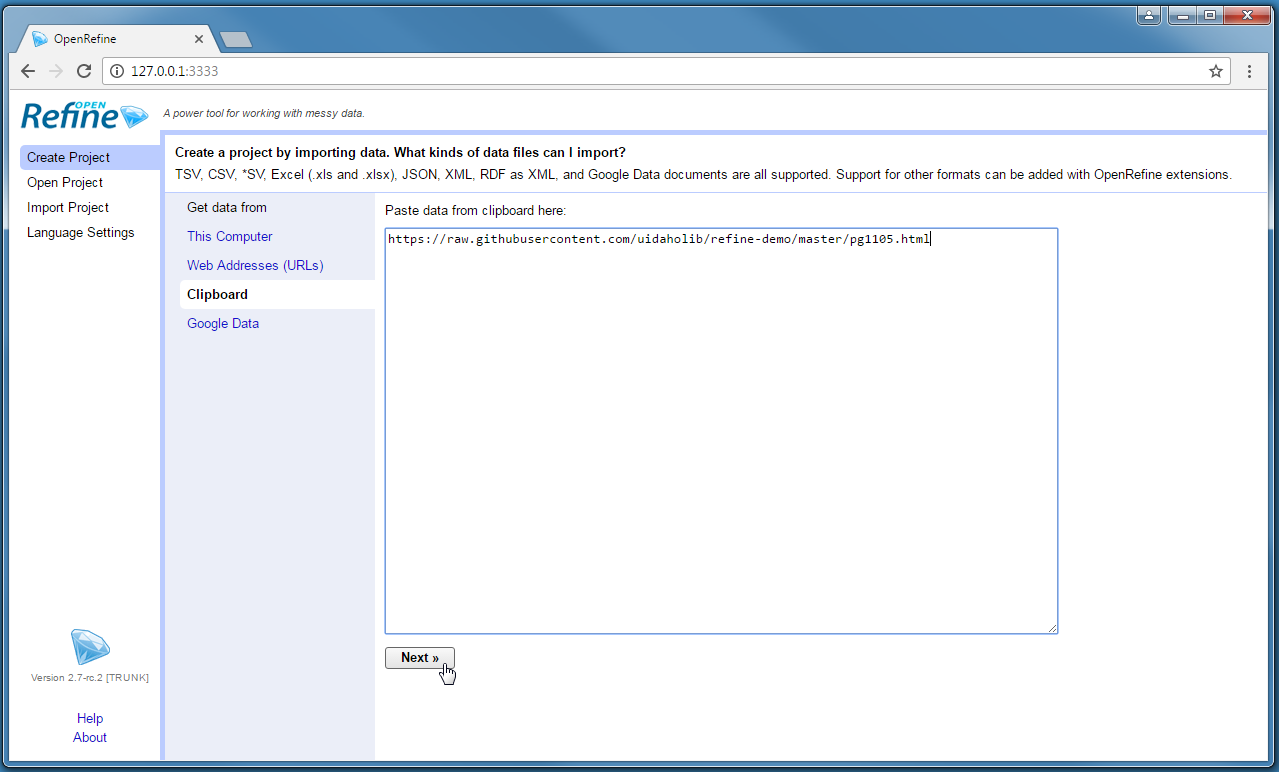
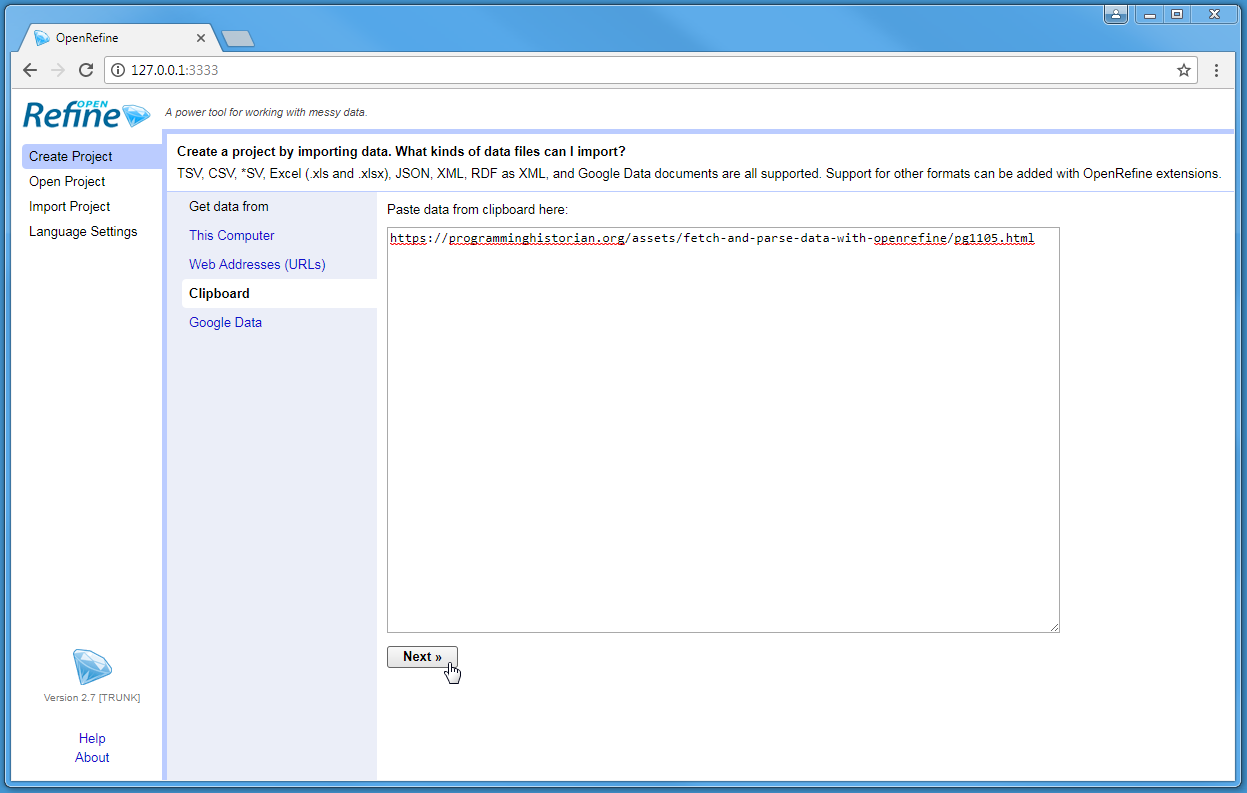
openrefine: final edits and screenshot updates

Changed region(s): [[0.0, 0.0, 1.0, 1.0], [0.3047, 0.8083, 0.3962, 0.9016]]

diff --git a/lessons/fetch-and-parse-data-with-openrefine.md b/lessons/fetch-and-parse-data-with-openrefine.md
@@ -11,7 +11,7 @@ layout: lesson
 # Lesson Goals
 
 OpenRefine is a powerful tool for exploring, cleaning, and transforming data. 
-An earlier Programming Historian [lesson](http://programminghistorian.org/lessons/cleaning-data-with-openrefine) introduced the basic functionality of Refine to efficiently discover and correct inconsistency in a data set.
+An earlier Programming Historian lesson, ["Cleaning Data with OpenRefine"](http://programminghistorian.org/lessons/cleaning-data-with-openrefine), introduced the basic functionality of Refine to efficiently discover and correct inconsistency in a data set.
 Building on those essential data wrangling skills, this lesson focuses on Refine's ability to fetch urls and parse web content.
 Examples introduce some of the advanced features to transform and enhance a data set including: 
 
@@ -19,6 +19,7 @@ Examples introduce some of the advanced features to transform and enhance a data
 - construct URL queries to retrieve information from a simple web API
 - parse HTML and JSON responses to extract relevant data
 - use array functions to manipulate string values
+- use Jython to extend Refine's functionality
 
 It will be helpful to have basic familiarity with OpenRefine, HTML, and programming concepts to complete this lesson.
 
@@ -69,13 +70,13 @@ A copy of the HTML ebook is hosted on GitHub for this example to avoid redirects
 
 ## Start "Sonnets" Project
 
-Start OpenRefine and select *Create project*. 
+Start OpenRefine and select *Create Project*. 
 Refine can import data from a wide variety of formats and sources, from a local Excel file to web accessible RDF.
 One often over looked method is the *Clipboard*, which allows entering data via copy & paste.
-Click Get Data From *Clipboard*, and paste this URL into the text box: 
+Under "Get Data From", click *Clipboard*, and paste this URL into the text box: 
 
 ```
-http://programminghistorian.github.io/ph-submissions/assets/fetch-and-parse-data-with-openrefine/pg1105.html
+https://programminghistorian.org/assets/fetch-and-parse-data-with-openrefine/pg1105.html
 ```
 
 {% include figure.html filename="refine-clipboard1.png" caption="Start project with clipboard" %}
@@ -91,14 +92,14 @@ Click on the menu arrow of *Column 1* > *Edit column* > *Add column by fetching 
 
 {% include figure.html caption="Edit column > Add column by fetching URL" filename="refine-fetch1.png" %}
 
-Name the new column `fetch`. 
+Name the new column "fetch". 
 The *throttle delay* option sets a pause time between requests to avoid being blocked by a server.
 The default is conservative. 
 
 {% include figure.html caption="Add column by fetch dialog box" filename="refine-fetch1.2.png" %}
 
 After clicking "OK", Refine will start requesting the URLs from the base column as if you were opening the pages in your browser, and will store each response in the cells of the new column.
-In this case, there is one URL in *Column 1* resulting in one cell in the *fetch* column containing the full source for the Sonnets web page. 
+In this case, there is one URL in *Column 1* resulting in one cell in the *fetch* column containing the full HTML source for the Sonnets web page. 
 
 {% include figure.html caption="Fetch results" filename="refine-fetch1.3.png" %}
 
@@ -108,18 +109,18 @@ Much of the web page is not sonnet text and must be removed to create a clean da
 First, it is necessary to identify a pattern that can isolate the desired content.
 Items will often be nested in a unique container or given a meaningful class or id.
 
-To make examining the HTML easier, click on the URL in *Column 1* to open the link in a new tab and view-source.
+To make examining the HTML easier, click on the URL in *Column 1* to open the link in a new tab, then right click on the page to "View Page Source".
 In this case the sonnets page does not have distinctive semantic markup, but each poem is contained inside a single `<p>` element. 
-Thus, if all the paragraphs are selected, the sonnets can be extracted from the array.
+Thus, if all the paragraphs are selected, the sonnets can be extracted from the group.
 
 {% include figure.html caption="Each sonnet is a \<p\> with lines separated by \<br /\>" filename="refine-sonnet-markup.png" %}
 
 On the *fetch* column, click on the menu arrow > *edit column* > *Add column based on this column*.
-Give the new column the name `parse`, then click in the *Expression* text box.
+Give the new column the name "parse", then click in the *Expression* text box.
 
-{% include figure.html caption="Edit column > Add column based on this column dialog box" filename="refine-expression-box.png" %}
+{% include figure.html caption="Edit column > Add column based on this column" filename="refine-expression-box.png" %}
 
-Values in Refine can be transformed using the General Refine Expression Language ([GREL](https://github.com/OpenRefine/OpenRefine/wiki/General-Refine-Expression-Language)).
+Data in Refine can be transformed using the [General Refine Expression Language](https://github.com/OpenRefine/OpenRefine/wiki/General-Refine-Expression-Language) (GREL).
 The *Expression* box accepts GREL functions that will be applied to each cell in the existing column to create values for the new one.
 The *Preview* window below the *Expression* box displays the current value on the left and the value for the new column on the right.
 
@@ -128,21 +129,22 @@ This means that each cell is simply copied to the new column, which is reflected
 GREL variables and functions are strung together in sequence using a period, called dot notation.
 This allows complex operations to be constructed by passing the results of each function to the next.
 
-GREL's `parseHtml()` function can read HTML content, allowing elements to be accessed using `select()` and the [jsoup selector syntax](https://jsoup.org/cookbook/extracting-data/selector-syntax).
-Starting with `value`, add the functions `parseHtml()` and `select("p")` in the *Expression* box using dot notation, resulting in `value.parseHtml().select("p")`.
-Do not click *OK* at this point, but look at the *Preview* to see the result of the expression.
+GREL's `parseHtml()` function can read HTML content, allowing elements to be accessed using the `select()` function and the [jsoup selector syntax](https://jsoup.org/cookbook/extracting-data/selector-syntax).
+Starting with `value`, add the functions `parseHtml()` and `select("p")` in the *Expression* box using dot notation, resulting in: `value.parseHtml().select("p")`.
+Do not click *OK* at this point, simply look at the *Preview* to see the result of the expression.
 
-{% include figure.html caption="Edit the GREL expression" filename="refine-parse-html.png" %}
+{% include figure.html caption="Edit the GREL expression, parseHtml function" filename="refine-parse-html.png" %}
 
 Notice that the output on the right no longer starts with the HTML root elements (`<!DOCTYPE html` etc.) seen on the left.
 Instead, it starts with a square bracket (`[`), displaying an [array](https://en.wikipedia.org/wiki/Array_data_type) of all the `p` elements found in the page.
 Refine represents an array as a comma separated list enclosed in square brackets, for example `[ "one", "two", "three" ]`.
 
-Refine is visual and iterative; it is common to gradually build up an expression while checking the *Preview* to see the result.
+Refine is visual and iterative; it is common to gradually build up an expression while checking the preview to see the result.
+In addition to helping debug your GREL, this provides an opportunity learn more about the data set before adding more functions.
 Try the following GREL statements in the *Expression* box without clicking *OK*. 
-Watch the preview window to understand how they function and learn about the data's contents:
+Watch the preview window to understand how they function:
 
-- Adding an index number to the expression selects one element from the array, for example `value.parseHtml().select("p")[0]`. In the sonnets example, the beginning of the file contains many paragraphs of license information that are unnecessary for the data set. Skipping ahead, the first sonnet is found at `value.parseHtml().select("p")[37]`. 
+- Adding an index number to the expression selects one element from the array, for example `value.parseHtml().select("p")[0]`. In the sonnets example, the beginning of the file contains many paragraphs of license information that are unnecessary for the data set. Skipping ahead through the index numbers, the first sonnet is found at `value.parseHtml().select("p")[37]`. 
 - GREL also supports using negative index numbers, thus `value.parseHtml().select("p")[-1]` will return the last item in the array. Working backwards, the last sonnet is at index `[-3]`.
 - Using these index numbers, it is possible to slice the array, extracting only the range of `p` that contain sonnets. Add the `slice()` function to the expression to preview the sub-set: `value.parseHtml().select("p").slice(37,-2)`. 
 
@@ -168,7 +170,7 @@ The full history of operations is recorded in the "Undo / Redo" tab.
 
 The *parse* column now contains all the sonnets separated by "|", but the project still contains only one row. 
 Individual rows for each sonnet can be created by splitting the cell.
-Click the menu arrow on the *parse* column > *Edit cells* > *Split multivalued cells*. 
+Click the menu arrow on the *parse* column > *Edit cells* > *Split multi-valued cells*. 
 Enter the separator `|` that was used to `join` in the last step.
 
 {% include figure.html caption="Edit cells > Split multivalued cells" filename="refine-split-multivalued.png" %}
@@ -197,7 +199,7 @@ Select the `p` tag, add an index number, and use the function `innerHtml()` to e
 value.parseHtml().select("p")[0].innerHtml()
 ```
 
-Click *Ok* to transform all 154 cells in the column. 
+Click *OK* to transform all 154 cells in the column. 
 
 {% include figure.html caption="Edit cells > Transform" filename="refine-innerhtml.png" %}
 
@@ -220,8 +222,8 @@ The entities will be replaced with normal whitespace.
 [GREL array functions](https://github.com/OpenRefine/OpenRefine/wiki/GREL-Array-Functions) provide a powerful way to manipulate text data and can be used to finish processing the sonnets.
 Any string value can be turned into an array using the `split()` function by providing the character or expression that separates the items (basically the opposite of `join()`). 
 
-In the sonnets each line ends with `<br>`, providing a convenient separator for splitting.
-The expression `value.split("<br>")` will create an array of the lines of each sonnet. 
+In the sonnets each line ends with `<br />`, providing a convenient separator for splitting.
+The expression `value.split("<br />")` will create an array of the lines of each sonnet. 
 Index numbers and slices can then be used to populate new columns.
 Keep in mind that Refine will not output an array directly to a cell.
 Be sure to select one element from the array using an index number or convert it back to a string with `join()`.
@@ -233,8 +235,8 @@ Trim automatically removes all leading and trailing white space in a cell, an es
 Using these concepts, a single line can be extracted and trimmed to create clean columns representing the sonnet number and first line.
 Create new columns from the *parse* column using these names and expressions:
 
-- number, `value.split("<br />")[0].trim()`
-- first, `value.split("<br />")[1].trim()`
+- "number", `value.split("<br />")[0].trim()`
+- "first", `value.split("<br />")[1].trim()`
 
 {% include figure.html caption="GREL split and trim" filename="refine-add-num-column.png" %}
 
@@ -242,9 +244,9 @@ The next column to create is the full sonnet text which contains multiple lines.
 However, `trim()` will only clean the beginning and end of the cell, leaving unnecessary whitespace in the body of the sonnet.
 To trim each line individually use the [GREL control](https://github.com/OpenRefine/OpenRefine/wiki/GREL-Controls) `forEach()`, a handy loop that iterates over an array.
 
-From the *parse* column, create a new column named *text*, and click in the *Expression* box.
+From the *parse* column, create a new column named "text", and click in the *Expression* box.
 A `forEach()` statement asks for an array, a variable name, and an expression applied to the variable. 
-Following the form `forEach(array, variable, expression)`, construct a loop using these parameters:
+Following the form `forEach(array, variable, expression)`, construct the loop using these parameters:
 
 - array `value.split("<br />")`, creates an array from the lines of the sonnet in each cell.
 - variable `line`, each item in the array is then represented as the variable (it could be anything, `v` is often used).
@@ -253,7 +255,7 @@ Following the form `forEach(array, variable, expression)`, construct a loop usin
 At this point, the statement should look like `forEach(value.split("<br />"), line, line.trim())` in the *Expression* box.
 Notice that the *Preview* now shows an array where the first element is the sonnet number.
 Since the results of the `forEach()` are returned as a new array, additional array functions can be applied, such as slice and join.
-Add `.slice(1)` to remove the sonnet number, and `.join("\n")` to concatenate the lines in to a string value.
+Add `slice(1)` to remove the sonnet number, and `join("\n")` to concatenate the lines in to a string value (`\n` is the symbol for new line in plain text).
 Thus, the final expression to extract and clean the full sonnet text is:
 
 ```
@@ -262,7 +264,8 @@ forEach(value.split("<br />"), line, line.trim()).slice(1).join("\n")
 
 {% include figure.html caption="GREL forEach expression" filename="refine-foreach.png" %}
 
-Following the same technique, add another new column from *parse* named *last* to represent the final couplet lines using:
+Click "OK" to create the column.
+Following the same technique, add another new column from *parse* named "last" to represent the final couplet lines using:
 
 ```
 forEach(value.split("<br />"), line, line.trim()).slice(-3).join("\n")
@@ -271,8 +274,8 @@ forEach(value.split("<br />"), line, line.trim()).slice(-3).join("\n")
 Finally, numeric columns can be added using the `length()` function.
 Create new columns from *text* with the names and expressions below:
 
-- characters, `value.length()`
-- lines, `value.split(/\n/).length()`
+- "characters", `value.length()`
+- "lines", `value.split(/\n/).length()`
 
 ## Cleanup and Export
 
@@ -334,6 +337,7 @@ Chronicling America provides [documentation](http://chroniclingamerica.loc.gov/a
 In addition to formal documentation, information about alternative formats and search API are sometimes given in the `<head>` element of a web page.
 Check for `<link rel="alternate"...`, `<link rel="search"...`, or `<!--` comments which provide hints on how to interact with the site.
 These clues provide a recipe book for interacting with the server using public links.
+
 The basic components of the ChromAm API are:
 
 - The base URL, `http://chroniclingamerica.loc.gov/`
@@ -342,30 +346,41 @@ The basic components of the ChromAm API are:
 
 Using a GREL expression, these components can be combined with the values in the "ChronAm" project to construct a search query URL.
 The contents of our data can be accessed using [GREL variables](https://github.com/OpenRefine/OpenRefine/wiki/Variables).
-As introduced in *Example 1*, The value of each cell in the current column is represented by `value`.
+As introduced in *Example 1*, the value of each cell in the current column is represented by `value`.
 Values in the same row can be retrieved using the `cells` variable plus the column name. 
 There are two ways to write a `cells` statement: bracket notation `cells['column name'].value` which allows column names that include a space, or dot notation `cells.column_name.value` which allows only single word column names.
 
 In GREL, strings are concatenated using the plus sign.
 For example, the expression `"one" + "two"` would result in "onetwo".
 
-To create the set of search queries, from the *state* column, add a column named `url` with this expression:
+To create the set of search queries, from the *state* column, add a column named "url" with this expression:
 
 ```
-"http://chroniclingamerica.loc.gov/search/pages/results/?state=" + value.escape('url') + "&date1=" + cells['year'].value.escape('url') + "&date2=" + cells['year'].value + "&dateFilterType=yearRange&sequence=1&sort=date&rows=5&format=json"
+"http://chroniclingamerica.loc.gov/search/pages/results/?state=" + value.escape('url') + "&date1=" + cells['year'].value.escape('url') + "&date2=" + cells['year'].value.escape('url') + "&dateFilterType=yearRange&sequence=1&sort=date&rows=5&format=json"
 ```
 {% include figure.html caption="Create query URL" filename="refine-chronam-url.png" %}
 
-The expression concatenates the constants (base URL, search service, and query fields) together with the values in each row.
-The `escape()` function is added to the cell variables to ensure the string will be safe in a URL (the opposite of the `unescape()` function introduced in *Example 1*). 
-Explicitly, the first query URL will ask for newspapers from Idaho (`state=Idaho`), from the year `1865`, only the front pages (`sequence=1`), sorting by date (`sort=date`), returning a maximum of five (`rows=5`) in JSON (`format=json`). 
+The expression concatenates the constants (base URL, search service, and query field names) together with the values in each row.
+The `escape()` function is added to the cell variables to ensure the string will be safe in a URL (the opposite of the `unescape()` function introduced in *Example 1*).
+
+Look at the value pairs after the `?` to understand the parameters of the search.
+Explicitly, the first query URL will ask for newspapers:
+
+- from Idaho (`state=Idaho`)
+- from the year 1865, (`date1=1865&date2=1865&dateFilterType=yearRange`)
+- only the front pages (`sequence=1`)
+- sorting by date (`sort=date`)
+- returning a maximum of five (`rows=5`)
+- in JSON (`format=json`)
 
 ## Fetch URLs
 
 The *url* column is a list of web queries that could be accessed with a browser.
-To test, click on a link, which will open it in a new tab.
+To test, click one of the links.
+The url will open in a new tab, returning a JSON response.
+
 Fetch the URLs using *url* column *Edit column* > *Add column by fetching urls*.
-Name the new column `fetch`. 
+Name the new column "fetch" and click *OK*. 
 In a few seconds, the operation should complete and the *fetch* column will be filled with [JSON](http://www.json.org/) data.
 
 ## Parse JSON to Get Items
@@ -376,7 +391,7 @@ The JSON key `items` contains an array of the individual newspapers returned by 
 To construct a orderly data set, it is necessary to parse the JSON and split each newspaper into its own row.
 
 GREL's `parseJson()` function allows us to select a key name to retrieve the corresponding values.
-Add a new column based on *fetch* with the name `items` and enter this expression: 
+Add a new column based on *fetch* with the name "items" and enter this expression: 
 
 ```
 value.parseJson()['items'].join("|||")
@@ -392,9 +407,9 @@ Since the newspaper items contain an OCR text field, the strange separator "|||"
 
 With the individual newspapers isolated, separate rows can be created by splitting the cells.
 Select *Split multivalued cells* on the *items* column, and enter the join used in the last step, `|||`. 
-
 After the operation, the top of the project table should read 20 rows.
 Clicking on Show as *records* should read 4, representing the original CSV rows.
+
 Notice that the new rows are empty in all columns except *items*. 
 To ensure the state is available with each newspaper issue, the empty values can be filled with the `Fill down` function.
 Click on the *state* column > *Edit cells* > *Fill down*. 
@@ -403,11 +418,12 @@ Click on the *state* column > *Edit cells* > *Fill down*.
 
 This is a good point to clean up the unnecessary columns.
 Click on the *All* column > *Edit columns* > *Re-order / remove columns*.
-Drag all columns except *state* and *items* to the right side, then click *Ok* to remove them.
+Drag all columns except *state* and *items* to the right side, then click *OK* to remove them.
 
 {% include figure.html caption="Re-order / remove columns" filename="refine-chronam-reorder.png" %}
 
 *Sanity check:* with the original columns removed, both *records* and *rows* will read 20.
+This makes sense, as we started with four states and fetched five records for each.
 
 ## Parse JSON Values
 
@@ -416,11 +432,11 @@ This is a common task, as many web APIs return information in JSON format.
 Again, GREL's `parseJson()` function makes this easy. 
 Create a new column from *items* for each newspaper metadata element by parsing the JSON and selecting the key:
 
-- date, `value.parseJson()['date']`
-- title, `value.parseJson()['title']`
-- city, `value.parseJson()['city'].join(", ")`
-- lccn, `value.parseJson()['lccn']`
-- text, `value.parseJson()['ocr_eng']`
+- "date", `value.parseJson()['date']`
+- "title", `value.parseJson()['title']`
+- "city", `value.parseJson()['city'].join(", ")`
+- "lccn", `value.parseJson()['lccn']`
+- "text", `value.parseJson()['ocr_eng']`
 
 After the desired information is extracted, the *items* column can be removed using *Edit column* > *Remove this column*. 
 
@@ -447,7 +463,7 @@ GREL does not have a built in function to use this type of API.
 However, the expression window language can be changed to [Jython](http://www.jython.org/), providing a more complete scripting environment where it is possible to implement a POST request.
 
 > [Jython](http://www.jython.org/) is Python implemented for the Java VM and comes bundled with Refine.
-> This means [Python 2](https://docs.python.org/2.7/) scripts can be written or loaded into the expression window, and Refine will apply them to each cell in the transformation.
+> This means [Python 2](https://docs.python.org/2.7/) scripts using the Standard Library can be written or loaded into the expression window, and Refine will apply them to each cell in the transformation.
 > The [official documentation](https://github.com/OpenRefine/OpenRefine/wiki/Jython) is sparse, but the builtin Jython can be extended with non-standard libraries using a [work around](https://github.com/OpenRefine/OpenRefine/wiki/Extending-Jython-with-pypi-modules).
 >
 > Keep in mind that spending time writing complex scripts moves away from the strengths of Refine. 
@@ -459,8 +475,8 @@ However, the expression window language can be changed to [Jython](http://www.jy
 Return to the "Sonnets" project completed in *[Example 1](#example-1-fetching-and-parsing-html)*. 
 If the tab was closed, click *Open* > *Open Project* and find the Sonnets example (Refine saves everything for you!). 
 
-Add a new column based on the *first* column named `sentiment`.
-We will use this window to test out a whole series of expressions, so leave it open until we get to the final iteration of the request.
+Add a new column based on the *first* column named "sentiment".
+We will use this window to test out a series of expressions, so leave it open until we get to the final iteration of the request.
 
 On the right side of the *Expression* box is a drop down to change the expression language.
 Select *Python / Jython* from the list.
@@ -490,18 +506,18 @@ return get.read()
 
 The preview should display the HTML source of the Jython home page, this is an HTTP GET request as in previous fetch examples.
 Notice that similar to opening and reading a text file with Python, `urlopen()` returns a file-like object that must be `read()` into a string.
-The URL could be replaced with `value` to construct a query similar to the fetch used in *Example 2*.
+The URL could be replaced with cell variables to construct a query similar to the fetch used in *Example 2*.
 
 ## POST Request
 
 Urllib2 will automatically send a POST if data is added to the request object.
 For example, [Text Processing](http://text-processing.com/) provides natural language processing APIs based on [Python NLTK](http://www.nltk.org/).
 The documentation for the [Sentiment Analysis service](http://text-processing.com/docs/sentiment.html) provides a base URL and the name of the key used for the data to be analyzed.
-No authentication is required and 1,000 calls per day are free (as of April 2017).
+No authentication is required and 1,000 calls per day are free for non-commercial use.[^use]
 
 This type of API is often demonstrated using [curl](https://curl.haxx.se/) on the commandline.
 Text Processing gives the example `curl -d "text=great" http://text-processing.com/api/sentiment/` which can be recreated in Jython to test the service.
-Building on the GET expression above, the POST data is added as the second parameter of *urlopen*, thus the request will be in the form `urllib2.urlopen(url,data)`.
+Building on the GET expression above, the POST data is added as the second parameter of *urlopen*, thus the request will be in the form `urllib2.urlopen(url, data)`.
 Type this script into the expression window:
 
 ```
@@ -524,7 +540,8 @@ return post.read()
 {% include figure.html caption="jython request" filename="refine-jython-request.png" %}
 
 Click *OK* and the Jython script will run for every row in the column.
-The JSON response can then be parsed using the methods demonstrated in *Example 2*.
+The JSON response can then be parsed with GREL using the methods demonstrated in *Example 2* (for example, `value.parseJson()['label']`).
+
 Given the small expression window and uniform data, the script above is pragmatically simplified and compressed.
 When Refine is encountering problems, it is better to implement a more complete script with error handling.
 If necessary, a throttle delay can be implemented by importing `time` and adding `time.sleep()` to the script. 
@@ -571,7 +588,7 @@ post = urllib2.urlopen(url, data)
 return post.read()
 ```
 
-The JSON response contains different metrics, but it will be obvious that the APIs disagree on many of the sentiment *labels*. 
+The JSON response contains different metrics, but it will be obvious that the APIs disagree on many of the sentiment "labels" (for example, use `value.parseJson()['result']['sentiment']` to extract a label comparable to the first API). 
 These are simple free APIs for demonstration purposes, but it is important to critically investigate services to more fully understand the potential of the metrics.
 
 Both APIs use a [naive bayes classifier](https://en.wikipedia.org/wiki/Naive_Bayes_classifier) to categorize text input.
@@ -582,7 +599,7 @@ Thus both are optimized for small chunks of modern English language similar to a
 Archaic words and phrases contribute significantly to the sonnets' sentiment, yet are unlikely to be given any weight in these models since they are not present in the training data.
 While comparing the metrics is fascinating, neither is likely to produce quality results for this data set.
 Rather than an accurate sentiment, we might be surprised to find a quantifiable dissonance between the sonnet's English and our modern web usage.
-However, a model optimized to Shakespeare's words could be developed using appropriate training data.
+However, a model optimized to Shakespeare's words could be developed using more appropriate training data.
 To learn more about classifiers and how to implement one, see Vilja Hulden's PH lesson ["Supervised Classification: The Naive Bayesian Returns to the Old Bailey"](http://programminghistorian.org/lessons/naive-bayesian) or Steven Bird, Ewan Klein, and Edward Loper's ["Learning to Classify Text"](http://www.nltk.org/book/ch06.html) in the [NTLK Book](http://www.nltk.org/book/).
 
 Accessing data and services on the web opens new possibilities and efficiencies for humanities research.
@@ -591,11 +608,12 @@ The training data may be incomplete, biased, or secret.
 We should always be asking questions about these aggregations and algorithms, thinking critically about the metrics they are capable of producing. 
 This is not a new technical skill, but an application of the historian's traditional expertise, not unlike interrogating physical primary materials to unravel bias and read between the lines.
 Humanities scholars routinely synthesize and evaluate convoluted sources to reveal important narratives, and must carry that skill into digital realm.
-We can critically evaluate algorithms and API services, as well as create new ones more suited to our questions and methods.
+We can critically evaluate data sources, algorithms, and API services, as well as create new ones more suited to our questions and methods.
 
-With it's unique ability to interactively wrangle data from raw aggregation to analysis, Refine supports exploratory research and a wonderfully fluid and playful approach to data. 
+With it's unique ability to interactively wrangle data from raw aggregation to analysis, Refine supports exploratory research and a wonderfully fluid and playful approach to tabular data. 
 OpenRefine is a flexible, pragmatic tool that simplifies routine tasks and, when combined with domain knowledge, extends research capabilities.
 
 [^huynh]: David Huynh, "Google Refine", Computer-Assisted Reporting Conference 2011, [http://web.archive.org/web/20150528125345/http://davidhuynh.net/spaces/nicar2011/tutorial.pdf](http://web.archive.org/web/20150528125345/http://davidhuynh.net/spaces/nicar2011/tutorial.pdf).
+[^use]: As of July 2017, see [API Documentation](http://text-processing.com/docs/index.html).
 [^1]: Jacob Perkins, "Sentiment Analysis with Python NLTK Text Classification", [http://text-processing.com/demo/sentiment/](http://text-processing.com/demo/sentiment/).
 [^2]: Vivek Narayanan, Ishan Arora, and Arjun Bhatia, "Fast and accurate sentiment classification using an enhanced Naive Bayes model", 2013, [arXiv:1305.6143](https://arxiv.org/abs/1305.6143).
